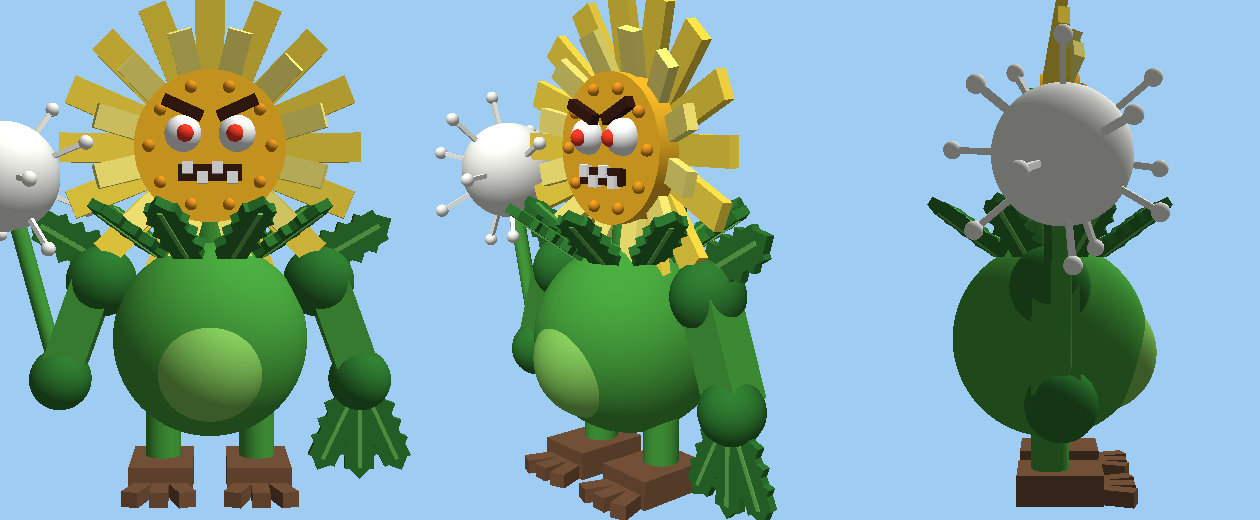
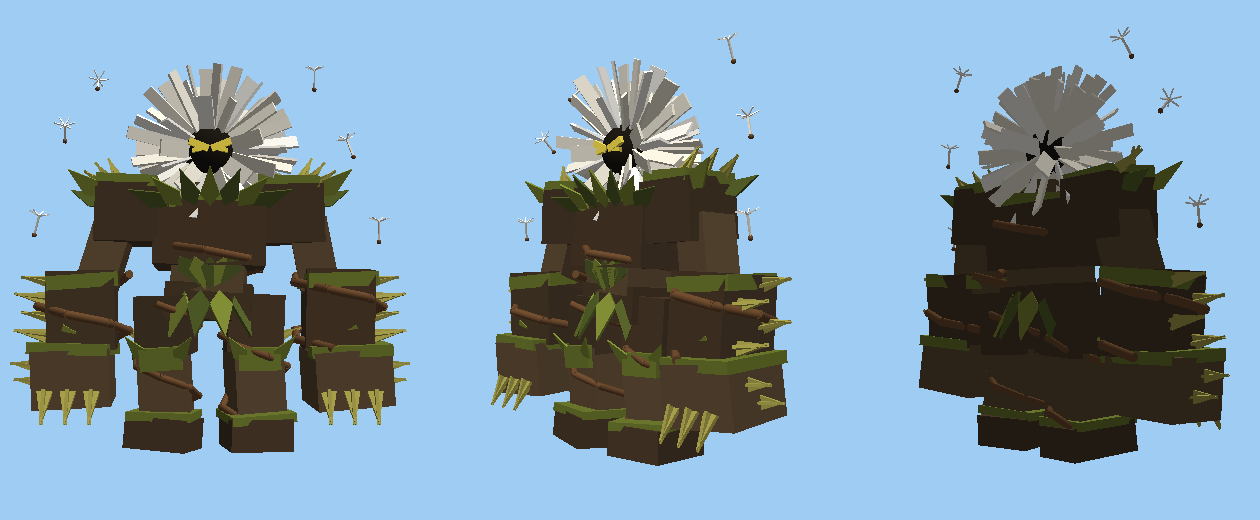
Rebuild the Dandelion Brute as a bark golem with a seed-head
Follows a reference picture: a hulking bark golem in a wide stance with
huge gauntlets and clawed fists, thorns, vines wound round the limbs, a
leaf skirt, mossy shoulders, and a big white dandelion seed-head around a
dark face with glowing yellow slit eyes, with seeds floating round it.

Adds wedge-based helpers to Models.luau for flat triangles, thorns,
pointed leaves and spiral vines. Spec and preview updated in docs/models.

Claude-Session: https://claude.ai/code/session_01YMyCmqcuYoGdzpdwFgMVRQ

diff --git a/docs/models/dandelion_brute.md b/docs/models/dandelion_brute.md
@@ -1,68 +1,74 @@
 # Dandelion Brute — model build spec
 
-Boss of area 1 (Starter Meadow). Built from parts in `Models.luau` (`BOSS_BUILDERS[1]`).
+Boss of area 1 (Starter Meadow). Built from parts in `Models.luau` (`BOSS_BUILDERS[1]`),
+following a reference picture: a hulking bark golem wrapped in vines, with a dandelion
+seed-head for a head.
+
 All sizes are in units of `S` = the boss's `size` in `Config.Areas` (7 studs), so the model
-scales with it. The model stands on y = 0 and faces −Z, like every boss.
+scales with it. The model stands on y = 0 and faces −Z, like every boss. About 460 parts.
 
-## Idea
-
-A grumpy, pot-bellied weed: a round leafy body, a huge dandelion flower for a head with an
-angry face in its centre, serrated dandelion leaves for a collar and shoulder guards, root
-feet, and a dandelion clock (seed puff) carried like a club that sheds glowing seeds.
-
-## Proportions (height ≈ 1.95 S)
+## Proportions (height ≈ 2.75 S, width ≈ 2.5 S fist to fist)
 
 | Part | From – to (y, in S) |
 |---|---|
-| root feet and toes | 0 – 0.12 |
-| stem legs | 0.1 – 0.3 |
-| leafy body (ball) | 0.21 – 1.03 |
-| leaf collar | 0.98 – 1.25 |
-| neck stem | 1.0 – 1.12 |
-| flower head (disc + petals) | 1.0 – 1.95 |
-| seed-puff club (right hand) | 0.45 – 1.5 |
+| feet (with moss on top) | 0 – 0.24 |
+| shins, then thighs (vines wound round) | 0.21 – 1.09 |
+| hips and the leaf skirt | 0.9 – 1.17 |
+| belly, chest (vine round it) | 1.1 – 1.81 |
+| shoulders (moss, thorns, leaves) | 1.47 – 1.9 |
+| gauntlets (forearms) | 0.7 – 1.26 |
+| fists with claws | 0.3 – 0.72 |
+| seed-head: dark core and strips | about 1.5 – 2.75 |
+
+Every bark block is skewed a little (`jit`), for a rough, chiselled look.
 
 ## Exact counts
 
 | Feature | Count |
 |---|---|
-| outer petals | 16 |
-| inner petals | 12 |
-| collar leaves | 8 |
-| teeth on each leaf | 3 pairs + 1 tip |
-| toes per foot | 3 |
-| seed spikes on the puff | 14 |
-| teeth in the mouth | 4 |
-| claw leaves on the left hand | 3 |
+| seed-head strips (front left open for the face) | 100 placed, about 85 shown |
+| leaf skirt | 12 leaves |
+| collar leaves / hanging belly leaves | 7 / 5 |
+| thorns per shoulder | 3 |
+| thorns per gauntlet / per fist side | 4 / 2 |
+| claws per fist | 3 |
+| vines | 1 per leg, 1 round the chest, 1 per gauntlet |
+| floating seeds (6 spokes each) | 6 |
 
 ## Colours
 
 | Part | Hex |
 |---|---|
-| stem green (body, legs, neck) | #46A03C |
-| dark leaf | #2E7830 |
-| leaf rib | #64B450 |
-| belly | #82C85A |
-| outer petals | #FFE046 |
-| inner petals | #FFF078 |
-| flower centre | #FFBE28 |
-| centre seeds (dots) | #E69620 |
-| roots | #78543A |
-| seed puff | #F8F8F2 |
-| eyes (pupils) | #FF3C28 |
-| brows, mouth | #3C1E14 |
+| bark (dark) | #4A3A2A |
+| bark (light) | #604C36 |
+| vines | #6B4A2E |
+| moss | #6E7A2E |
+| leaves | #828E36 / #56622A |
+| thorns and claws | #AAA24C |
+| seed-head strips | #F2ECDC / #FFFCF4 |
+| head core | #1E1A14 |
+| eyes | #FFE650 |
+
+Materials: Wood for bark and vines, Grass for moss, smooth plastic for leaves, thorns and strips.
 
 ## What glows
 
-- the pupils (red light)
-- the seed tips and the puff, which drifts white seed particles
+- the yellow slit eyes (with a light)
+- the seed spokes; white seeds drift up and away from the head (particles)
 
 ## Moving parts
 
 None of its own: the fight code moves the whole model (walking, turning, attacks).
 
+## Limits compared with the reference
+
+The reference has painted bark and moss textures and sculpted meshes. This version is built
+from blocks, wedges and cylinders, so it is chunkier and the bark is flat Wood material. A
+closer match needs the model sculpted and textured in Blender and imported as a mesh.
+
 ## Preview
 
-Ray-traced from a Python copy of the builder (not a Studio screenshot): front, three-quarter and side.
+Ray-traced from a Python copy of the builder (not a Studio screenshot): front, three-quarter
+and back three-quarter.
 
 ![Dandelion Brute preview](dandelion_brute.png)
